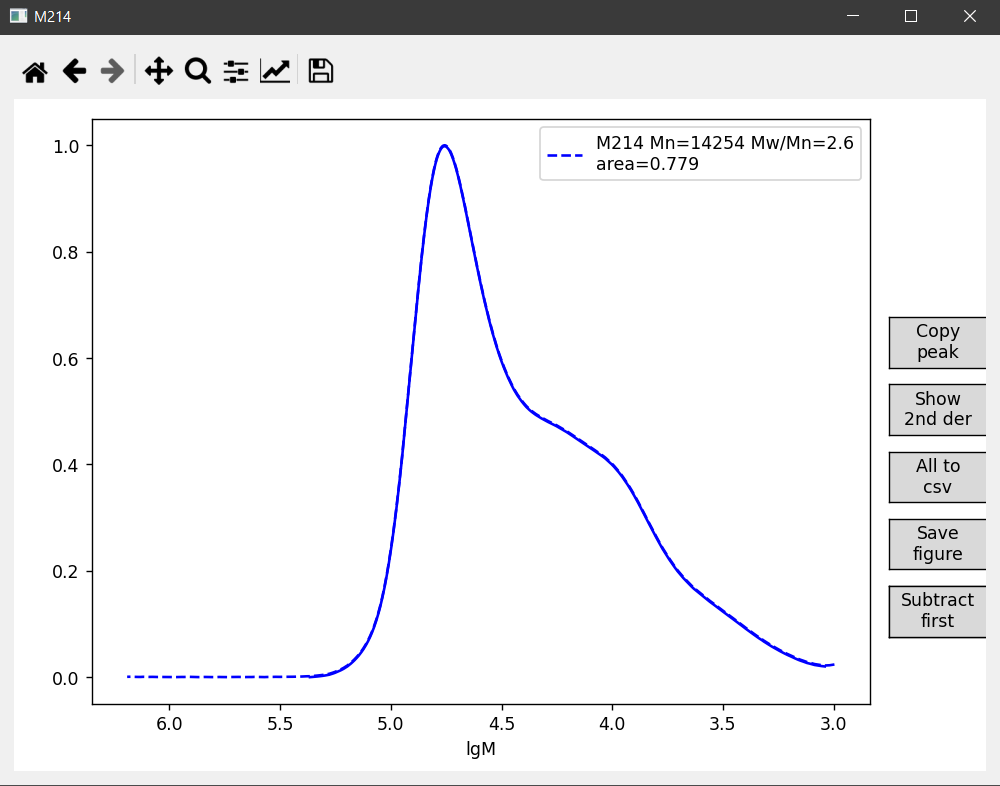
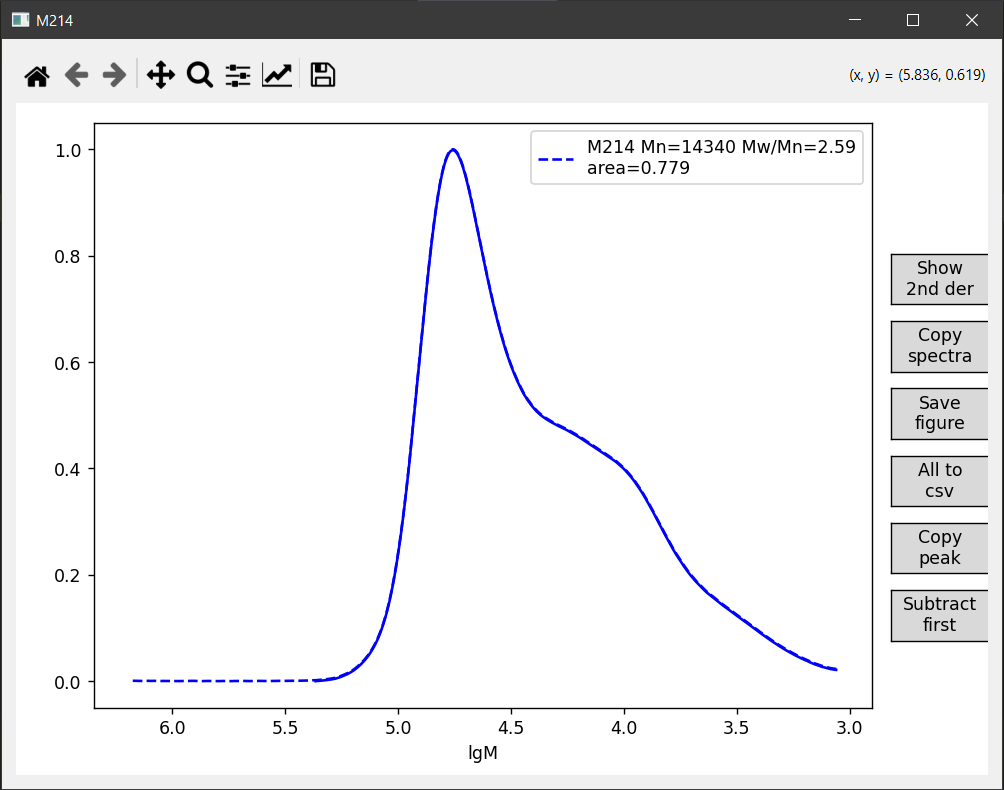
v alpha 1.1 - Execulable now is running with console - Updated screenshots

diff --git a/README.md b/README.md
@@ -41,11 +41,11 @@ If you want to compile the project into an executable by yourself, follow these 
 2. Navigate to the project directory and run:
    - On Windows:
      ```bash
-     pyinstaller --noconfirm --windowed --name "GPCurve" --add-data "config.ini;." main.py
+     pyinstaller --noconfirm --name "GPCurve" --add-data "config.ini;." main.py
      ```
    - On Linux/macOS:
      ```bash
-     pyinstaller --noconfirm --windowed --name "GPCurve" --add-data "config.ini:." main.py
+     pyinstaller --noconfirm --name "GPCurve" --add-data "config.ini:." main.py
      ```
 3. The compiled program will be located in the `dist` folder.
 
